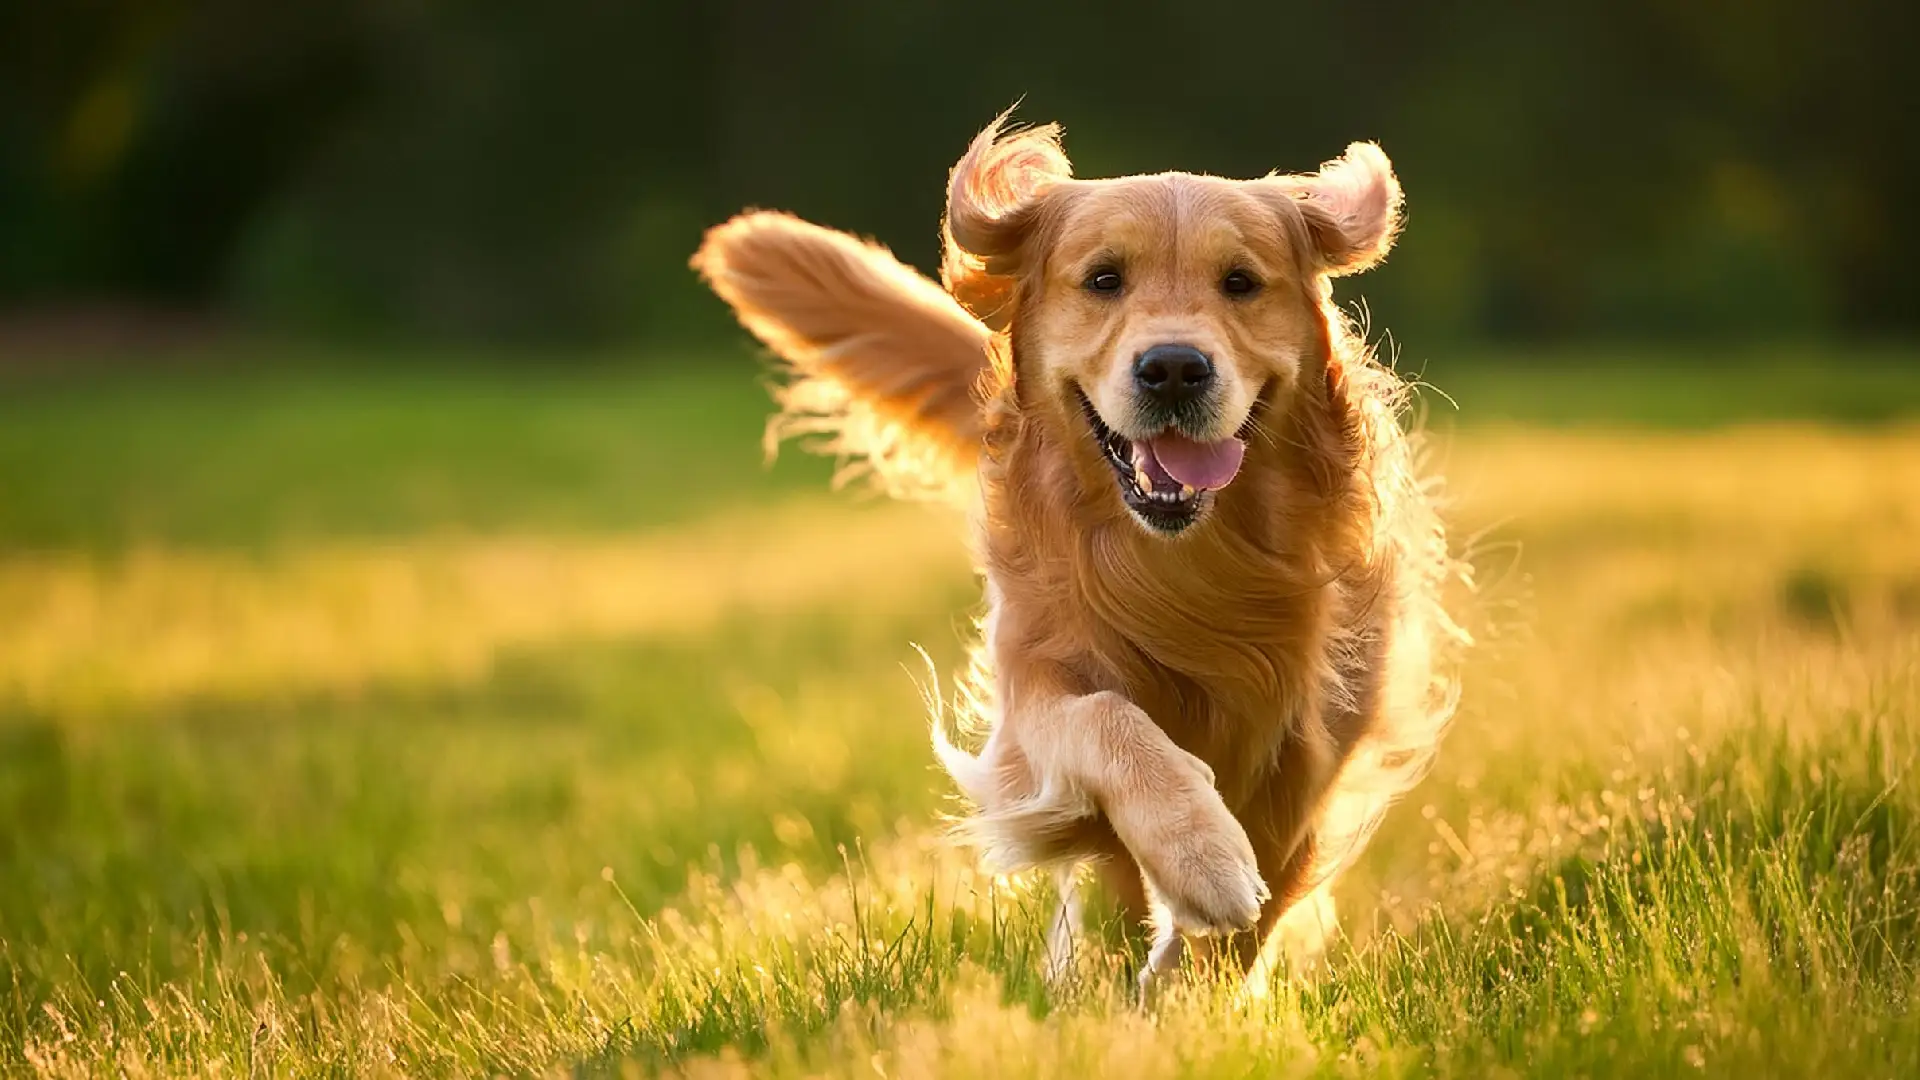
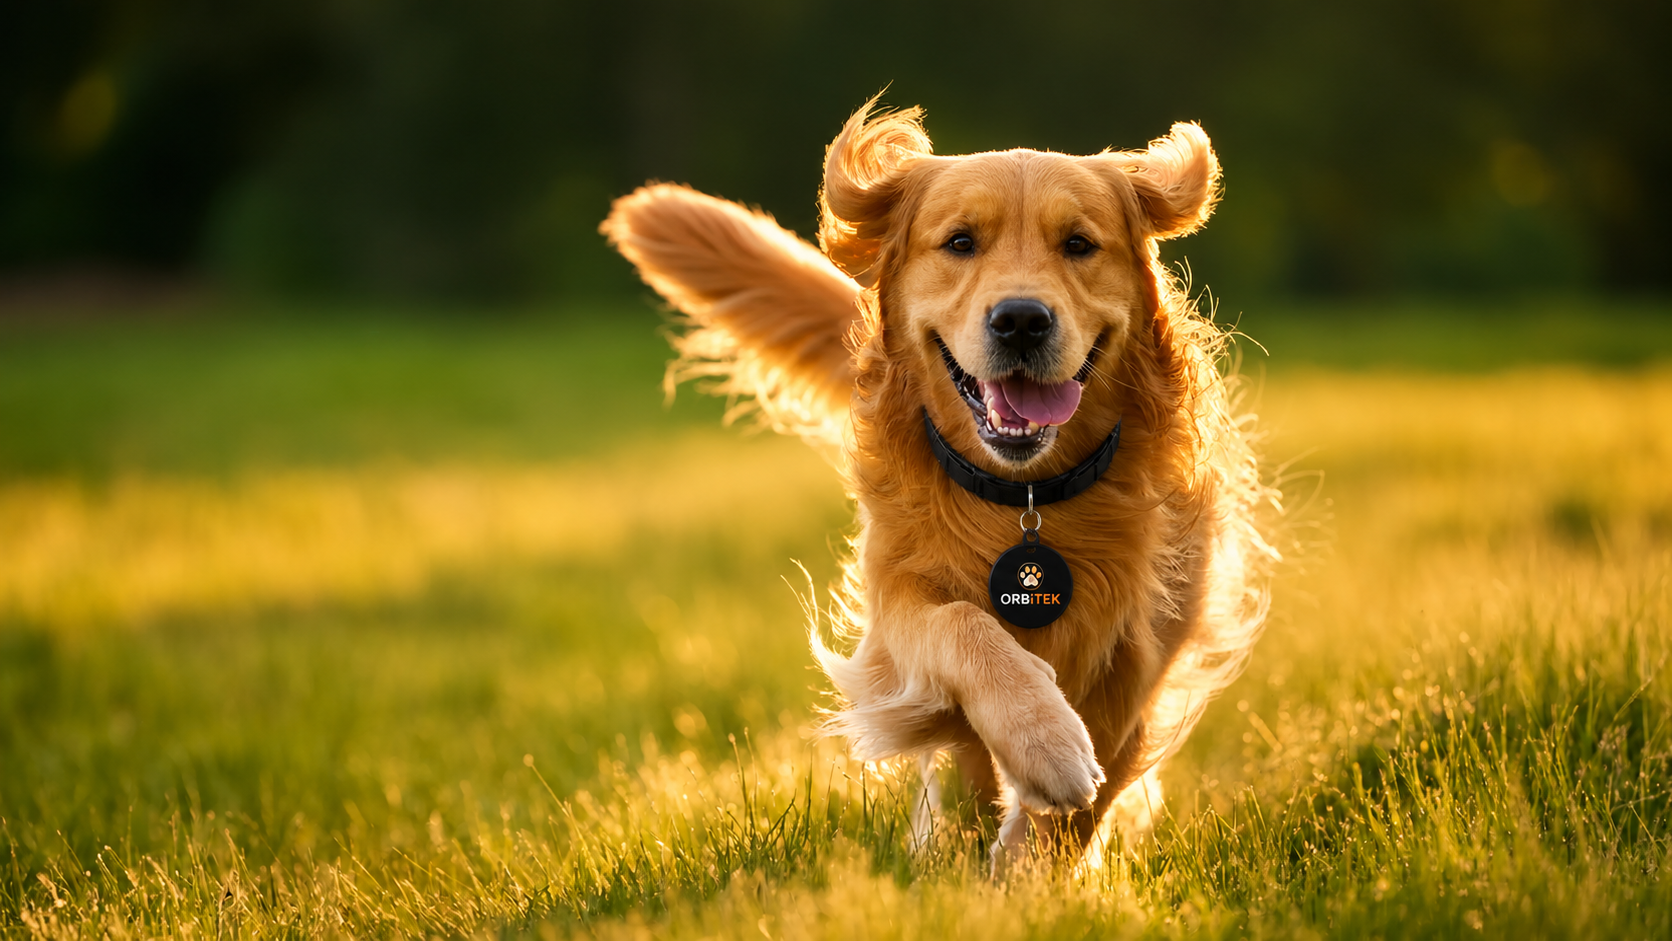
Adiciona vitrine de pets com tags Orbitek

diff --git a/public/index.html b/public/index.html
@@ -10,6 +10,7 @@
   <link rel="preconnect" href="https://fonts.gstatic.com" crossorigin>
   <link href="https://fonts.googleapis.com/css2?family=DM+Sans:wght@400;500;600;700&family=Manrope:wght@600;700;800&display=swap" rel="stylesheet">
   <link rel="stylesheet" href="/css/geral.css?v=2.0">
+  <link rel="stylesheet" href="/css/landing-gallery.css?v=2.2">
 </head>
 <body>
   <a class="skip-link" href="#conteudo">Ir para o conteúdo</a>
@@ -97,6 +98,32 @@
           <article class="benefit reveal"><span>⌁</span><div><h3>QR Code + NFC</h3><p>Duas formas rápidas de acessar, compatíveis com celulares modernos.</p></div></article>
           <article class="benefit reveal"><span>✦</span><div><h3>Dados sempre atualizados</h3><p>Troque telefone, foto e informações do pet pelo painel do tutor.</p></div></article>
           <article class="benefit reveal"><span>♡</span><div><h3>Contato em poucos toques</h3><p>WhatsApp e ligação direto no perfil, sem expor dados desnecessários.</p></div></article>
+        </div>
+      </div>
+    </section>
+
+    <section class="section pet-showcase" aria-labelledby="pet-showcase-title">
+      <div class="container">
+        <div class="section-heading reveal">
+          <span class="kicker">FEITA PARA TODOS</span>
+          <h2 id="pet-showcase-title">Proteção para todos os tamanhos</h2>
+          <p>Do pequeno companheiro ao grande aventureiro, a tag Orbitek acompanha seu pet com conforto, tecnologia e identificação rápida.</p>
+        </div>
+        <div class="pet-showcase-grid">
+          <article class="pet-showcase-card pet-showcase-large reveal">
+            <img src="/assets/maior.png" alt="Cachorro de grande porte usando coleira e tag Orbitek Pets" loading="lazy">
+            <div class="pet-showcase-caption">
+              <span>PARA CÃES GRANDES</span>
+              <h3>Presença que inspira segurança</h3>
+            </div>
+          </article>
+          <article class="pet-showcase-card pet-showcase-small reveal">
+            <img src="/assets/menor.png" alt="Cachorro de pequeno porte usando coleira e tag Orbitek Pets" loading="lazy">
+            <div class="pet-showcase-caption">
+              <span>PARA CÃES PEQUENOS</span>
+              <h3>Leve para usar todos os dias</h3>
+            </div>
+          </article>
         </div>
       </div>
     </section>

diff --git a/public/css/landing-gallery.css b/public/css/landing-gallery.css
@@ -1,0 +1,98 @@
+.pet-showcase {
+  background: linear-gradient(180deg, #fff 0%, #fffaf4 100%);
+}
+
+.pet-showcase-grid {
+  display: grid;
+  grid-template-columns: 1.18fr .82fr;
+  gap: 22px;
+}
+
+.pet-showcase-card {
+  position: relative;
+  min-height: 520px;
+  overflow: hidden;
+  border-radius: 28px;
+  background: #16233d;
+  box-shadow: 0 18px 45px rgba(22, 35, 61, .14);
+}
+
+.pet-showcase-card img {
+  width: 100%;
+  height: 100%;
+  position: absolute;
+  inset: 0;
+  object-fit: cover;
+  transition: transform .5s ease;
+}
+
+.pet-showcase-large img {
+  object-position: 58% center;
+}
+
+.pet-showcase-small img {
+  object-position: center;
+}
+
+.pet-showcase-card::after {
+  content: "";
+  position: absolute;
+  inset: 38% 0 0;
+  background: linear-gradient(transparent, rgba(9, 16, 31, .82));
+}
+
+.pet-showcase-card:hover img {
+  transform: scale(1.025);
+}
+
+.pet-showcase-caption {
+  position: absolute;
+  z-index: 1;
+  left: 30px;
+  right: 30px;
+  bottom: 28px;
+  color: #fff;
+}
+
+.pet-showcase-caption span {
+  display: block;
+  margin-bottom: 7px;
+  color: #ffc85a;
+  font-size: .68rem;
+  font-weight: 800;
+  letter-spacing: .14em;
+}
+
+.pet-showcase-caption h3 {
+  max-width: 390px;
+  font-size: clamp(1.35rem, 2.4vw, 2rem);
+}
+
+@media (max-width: 800px) {
+  .pet-showcase-grid {
+    grid-template-columns: 1fr;
+  }
+
+  .pet-showcase-card {
+    min-height: 430px;
+  }
+}
+
+@media (max-width: 500px) {
+  .pet-showcase-card {
+    min-height: 360px;
+    border-radius: 22px;
+  }
+
+  .pet-showcase-caption {
+    left: 22px;
+    right: 22px;
+    bottom: 22px;
+  }
+}
+
+@media (prefers-reduced-motion: reduce) {
+  .pet-showcase-card img {
+    transition: none;
+  }
+}
